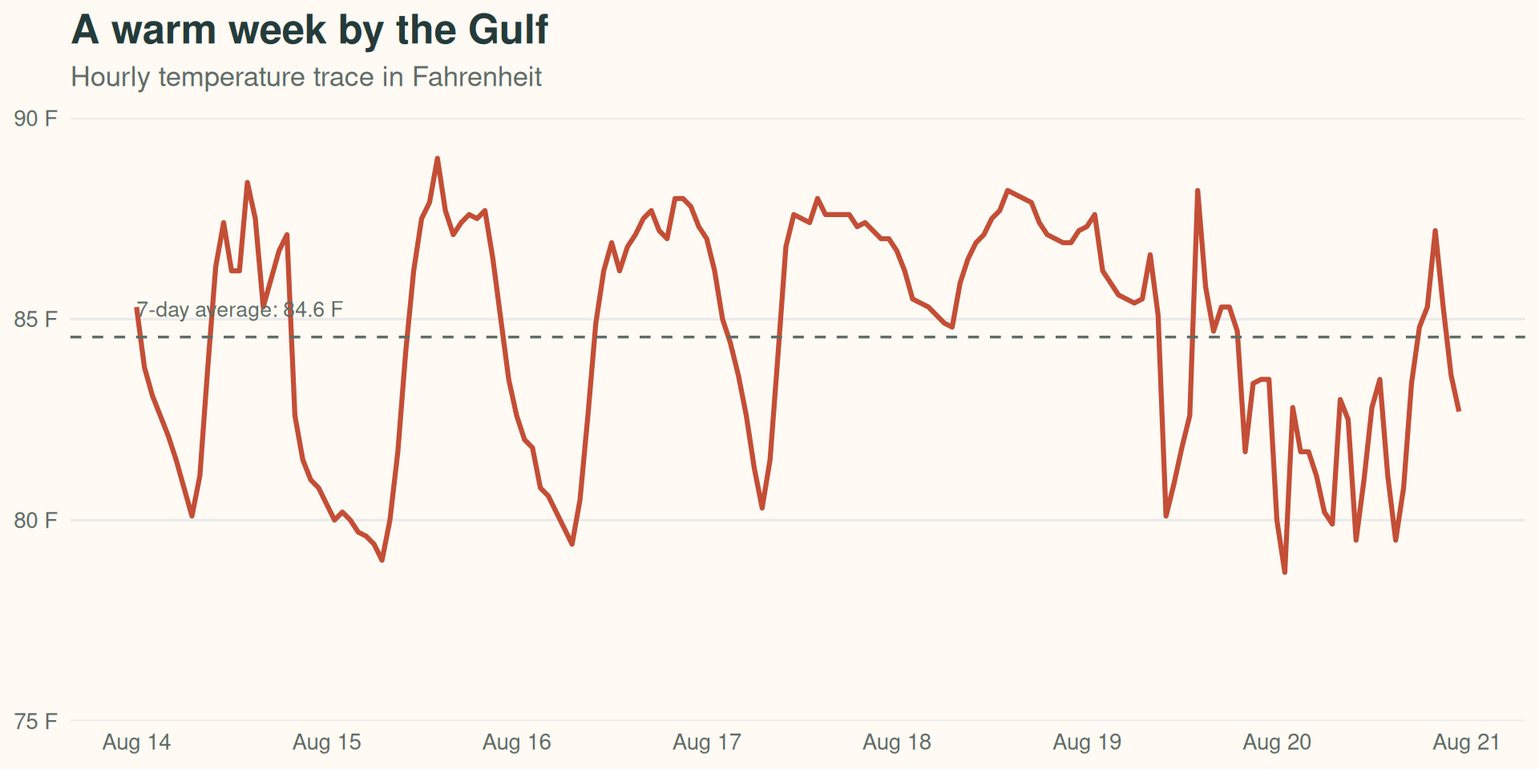
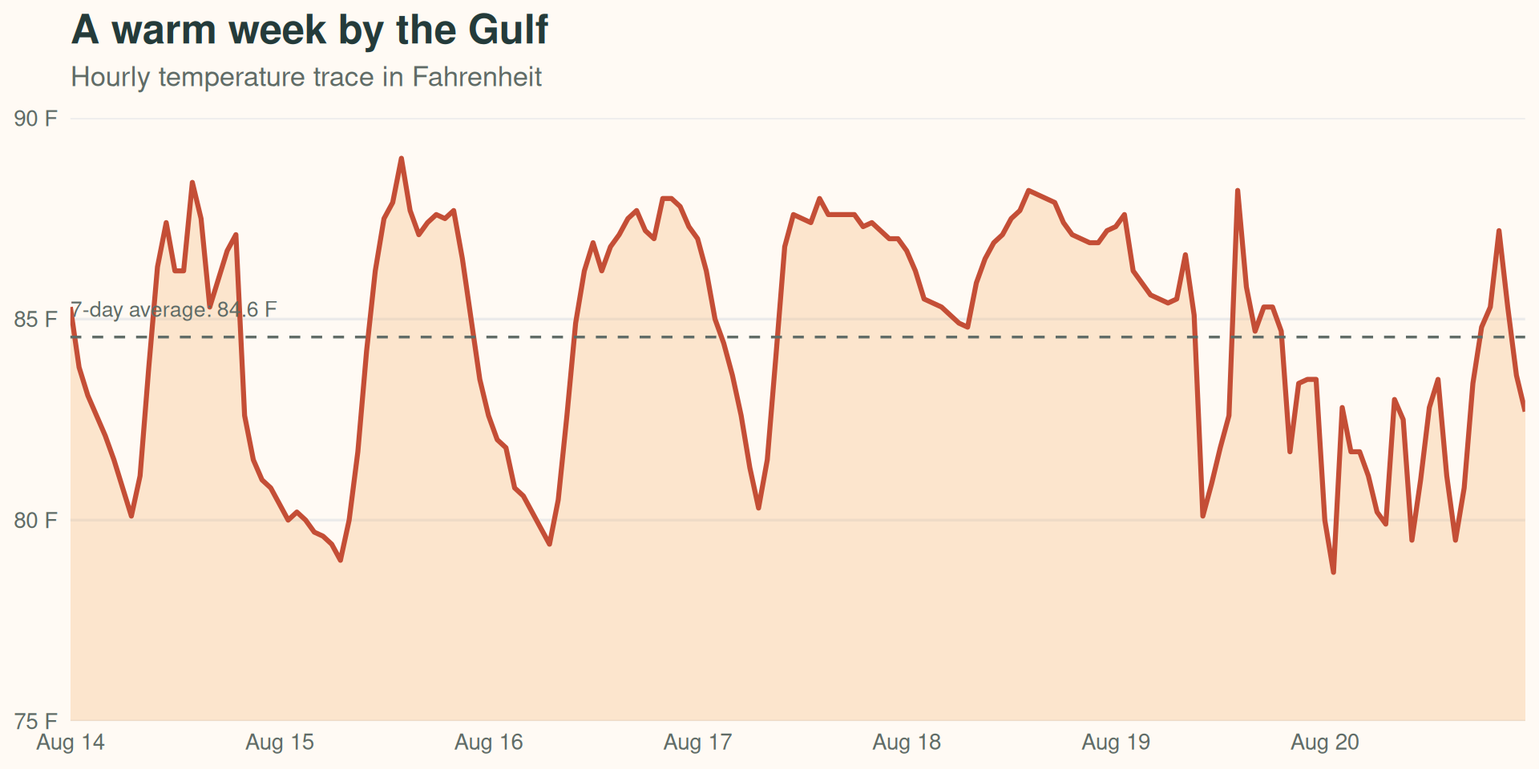
Built site for gh-pages

diff --git a/index.html b/index.html
@@ -80,7 +80,8 @@ pre > code.sourceCode > span > a:first-child::before { text-decoration: underlin
 
 <link rel="stylesheet" href="body { background: #fffaf4; }
 .quarto-title-block { max-width: 900px; margin: 0 auto; }
-.quarto-figure { margin-top: 1.5rem; }">
+.quarto-figure { margin-top: 1.5rem; }
+.cell { display: flex; flex-direction: column-reverse; }">
 </head>
 
 <body class="fullcontent quarto-light">
@@ -128,26 +129,23 @@ pre > code.sourceCode > span > a:first-child::before { text-decoration: underlin
 <span id="cb1-7"><a href="#cb1-7" aria-hidden="true" tabindex="-1"></a>           <span class="at">label =</span> <span class="fu">paste0</span>(<span class="st">"7-day average: "</span>, <span class="fu">round</span>(<span class="fu">mean</span>(weather<span class="sc">$</span>temperature_f), <span class="dv">1</span>), <span class="st">" F"</span>),</span>
 <span id="cb1-8"><a href="#cb1-8" aria-hidden="true" tabindex="-1"></a>           <span class="at">hjust =</span> <span class="dv">0</span>, <span class="at">color =</span> <span class="st">"#5f6b66"</span>, <span class="at">size =</span> <span class="fl">3.5</span>) <span class="sc">+</span></span>
 <span id="cb1-9"><a href="#cb1-9" aria-hidden="true" tabindex="-1"></a>  <span class="fu">scale_x_datetime</span>(<span class="at">date_breaks =</span> <span class="st">"1 day"</span>, <span class="at">date_labels =</span> <span class="st">"%b %d"</span>) <span class="sc">+</span></span>
-<span id="cb1-10"><a href="#cb1-10" aria-hidden="true" tabindex="-1"></a>  <span class="fu">scale_y_continuous</span>(<span class="at">limits =</span> <span class="fu">c</span>(<span class="dv">75</span>, <span class="dv">90</span>), <span class="at">breaks =</span> <span class="fu">seq</span>(<span class="dv">75</span>, <span class="dv">90</span>, <span class="at">by =</span> <span class="dv">5</span>),</span>
-<span id="cb1-11"><a href="#cb1-11" aria-hidden="true" tabindex="-1"></a>                     <span class="at">labels =</span> \(x) <span class="fu">paste0</span>(x, <span class="st">" F"</span>), <span class="at">expand =</span> <span class="fu">c</span>(<span class="dv">0</span>, <span class="dv">0</span>)) <span class="sc">+</span></span>
-<span id="cb1-12"><a href="#cb1-12" aria-hidden="true" tabindex="-1"></a>  <span class="fu">labs</span>(<span class="at">x =</span> <span class="cn">NULL</span>, <span class="at">y =</span> <span class="cn">NULL</span>,</span>
-<span id="cb1-13"><a href="#cb1-13" aria-hidden="true" tabindex="-1"></a>       <span class="at">title =</span> <span class="st">"A warm week by the Gulf"</span>,</span>
-<span id="cb1-14"><a href="#cb1-14" aria-hidden="true" tabindex="-1"></a>       <span class="at">subtitle =</span> <span class="st">"Hourly temperature trace in Fahrenheit"</span>) <span class="sc">+</span></span>
-<span id="cb1-15"><a href="#cb1-15" aria-hidden="true" tabindex="-1"></a>  <span class="fu">theme_minimal</span>(<span class="at">base_size =</span> <span class="dv">13</span>) <span class="sc">+</span></span>
-<span id="cb1-16"><a href="#cb1-16" aria-hidden="true" tabindex="-1"></a>  <span class="fu">theme</span>(</span>
-<span id="cb1-17"><a href="#cb1-17" aria-hidden="true" tabindex="-1"></a>    <span class="at">plot.title =</span> <span class="fu">element_text</span>(<span class="at">face =</span> <span class="st">"bold"</span>, <span class="at">size =</span> <span class="dv">19</span>, <span class="at">color =</span> <span class="st">"#243b3a"</span>),</span>
-<span id="cb1-18"><a href="#cb1-18" aria-hidden="true" tabindex="-1"></a>    <span class="at">plot.subtitle =</span> <span class="fu">element_text</span>(<span class="at">color =</span> <span class="st">"#5f6b66"</span>, <span class="at">margin =</span> <span class="fu">margin</span>(<span class="at">b =</span> <span class="dv">12</span>)),</span>
-<span id="cb1-19"><a href="#cb1-19" aria-hidden="true" tabindex="-1"></a>    <span class="at">panel.grid.minor =</span> <span class="fu">element_blank</span>(),</span>
-<span id="cb1-20"><a href="#cb1-20" aria-hidden="true" tabindex="-1"></a>    <span class="at">panel.grid.major.x =</span> <span class="fu">element_blank</span>(),</span>
-<span id="cb1-21"><a href="#cb1-21" aria-hidden="true" tabindex="-1"></a>    <span class="at">axis.text =</span> <span class="fu">element_text</span>(<span class="at">color =</span> <span class="st">"#5f6b66"</span>),</span>
-<span id="cb1-22"><a href="#cb1-22" aria-hidden="true" tabindex="-1"></a>    <span class="at">plot.background =</span> <span class="fu">element_rect</span>(<span class="at">fill =</span> <span class="st">"#fffaf4"</span>, <span class="at">color =</span> <span class="cn">NA</span>),</span>
-<span id="cb1-23"><a href="#cb1-23" aria-hidden="true" tabindex="-1"></a>    <span class="at">panel.background =</span> <span class="fu">element_rect</span>(<span class="at">fill =</span> <span class="st">"#fffaf4"</span>, <span class="at">color =</span> <span class="cn">NA</span>)</span>
-<span id="cb1-24"><a href="#cb1-24" aria-hidden="true" tabindex="-1"></a>  )</span></code></pre></div><button title="Copy to Clipboard" class="code-copy-button"><i class="bi"></i></button></div>
+<span id="cb1-10"><a href="#cb1-10" aria-hidden="true" tabindex="-1"></a>  <span class="fu">scale_y_continuous</span>(<span class="at">breaks =</span> <span class="fu">seq</span>(<span class="dv">75</span>, <span class="dv">90</span>, <span class="at">by =</span> <span class="dv">5</span>),</span>
+<span id="cb1-11"><a href="#cb1-11" aria-hidden="true" tabindex="-1"></a>                     <span class="at">labels =</span> \(x) <span class="fu">paste0</span>(x, <span class="st">" F"</span>)) <span class="sc">+</span></span>
+<span id="cb1-12"><a href="#cb1-12" aria-hidden="true" tabindex="-1"></a>  <span class="fu">coord_cartesian</span>(<span class="at">ylim =</span> <span class="fu">c</span>(<span class="dv">75</span>, <span class="dv">90</span>), <span class="at">expand =</span> <span class="cn">FALSE</span>) <span class="sc">+</span></span>
+<span id="cb1-13"><a href="#cb1-13" aria-hidden="true" tabindex="-1"></a>  <span class="fu">labs</span>(<span class="at">x =</span> <span class="cn">NULL</span>, <span class="at">y =</span> <span class="cn">NULL</span>,</span>
+<span id="cb1-14"><a href="#cb1-14" aria-hidden="true" tabindex="-1"></a>       <span class="at">title =</span> <span class="st">"A warm week by the Gulf"</span>,</span>
+<span id="cb1-15"><a href="#cb1-15" aria-hidden="true" tabindex="-1"></a>       <span class="at">subtitle =</span> <span class="st">"Hourly temperature trace in Fahrenheit"</span>) <span class="sc">+</span></span>
+<span id="cb1-16"><a href="#cb1-16" aria-hidden="true" tabindex="-1"></a>  <span class="fu">theme_minimal</span>(<span class="at">base_size =</span> <span class="dv">13</span>) <span class="sc">+</span></span>
+<span id="cb1-17"><a href="#cb1-17" aria-hidden="true" tabindex="-1"></a>  <span class="fu">theme</span>(</span>
+<span id="cb1-18"><a href="#cb1-18" aria-hidden="true" tabindex="-1"></a>    <span class="at">plot.title =</span> <span class="fu">element_text</span>(<span class="at">face =</span> <span class="st">"bold"</span>, <span class="at">size =</span> <span class="dv">19</span>, <span class="at">color =</span> <span class="st">"#243b3a"</span>),</span>
+<span id="cb1-19"><a href="#cb1-19" aria-hidden="true" tabindex="-1"></a>    <span class="at">plot.subtitle =</span> <span class="fu">element_text</span>(<span class="at">color =</span> <span class="st">"#5f6b66"</span>, <span class="at">margin =</span> <span class="fu">margin</span>(<span class="at">b =</span> <span class="dv">12</span>)),</span>
+<span id="cb1-20"><a href="#cb1-20" aria-hidden="true" tabindex="-1"></a>    <span class="at">panel.grid.minor =</span> <span class="fu">element_blank</span>(),</span>
+<span id="cb1-21"><a href="#cb1-21" aria-hidden="true" tabindex="-1"></a>    <span class="at">panel.grid.major.x =</span> <span class="fu">element_blank</span>(),</span>
+<span id="cb1-22"><a href="#cb1-22" aria-hidden="true" tabindex="-1"></a>    <span class="at">axis.text =</span> <span class="fu">element_text</span>(<span class="at">color =</span> <span class="st">"#5f6b66"</span>),</span>
+<span id="cb1-23"><a href="#cb1-23" aria-hidden="true" tabindex="-1"></a>    <span class="at">plot.background =</span> <span class="fu">element_rect</span>(<span class="at">fill =</span> <span class="st">"#fffaf4"</span>, <span class="at">color =</span> <span class="cn">NA</span>),</span>
+<span id="cb1-24"><a href="#cb1-24" aria-hidden="true" tabindex="-1"></a>    <span class="at">panel.background =</span> <span class="fu">element_rect</span>(<span class="at">fill =</span> <span class="st">"#fffaf4"</span>, <span class="at">color =</span> <span class="cn">NA</span>)</span>
+<span id="cb1-25"><a href="#cb1-25" aria-hidden="true" tabindex="-1"></a>  )</span></code></pre></div><button title="Copy to Clipboard" class="code-copy-button"><i class="bi"></i></button></div>
 </details>
-<div class="cell-output cell-output-stderr">
-<pre><code>Warning in max(ids, na.rm = TRUE): no non-missing arguments to max; returning
--Inf</code></pre>
-</div>
 <div class="cell-output-display">
 <div class="quarto-figure quarto-figure-center">
 <figure class="figure">
@@ -160,23 +158,23 @@ pre > code.sourceCode > span > a:first-child::before { text-decoration: underlin
 <div class="cell">
 <details class="code-fold">
 <summary>Code</summary>
-<div class="code-copy-outer-scaffold"><div class="sourceCode cell-code" id="cb3"><pre class="sourceCode r code-with-copy"><code class="sourceCode r"><span id="cb3-1"><a href="#cb3-1" aria-hidden="true" tabindex="-1"></a><span class="fu">ggplot</span>(weather, <span class="fu">aes</span>(<span class="at">x =</span> time, <span class="at">y =</span> precipitation_inches)) <span class="sc">+</span></span>
-<span id="cb3-2"><a href="#cb3-2" aria-hidden="true" tabindex="-1"></a>  <span class="fu">geom_col</span>(<span class="at">fill =</span> <span class="st">"#277da1"</span>) <span class="sc">+</span></span>
-<span id="cb3-3"><a href="#cb3-3" aria-hidden="true" tabindex="-1"></a>  <span class="fu">scale_x_datetime</span>(<span class="at">date_breaks =</span> <span class="st">"1 day"</span>, <span class="at">date_labels =</span> <span class="st">"%b %d"</span>) <span class="sc">+</span></span>
-<span id="cb3-4"><a href="#cb3-4" aria-hidden="true" tabindex="-1"></a>  <span class="fu">scale_y_continuous</span>(<span class="at">labels =</span> \(x) <span class="fu">paste0</span>(x, <span class="st">" in"</span>)) <span class="sc">+</span></span>
-<span id="cb3-5"><a href="#cb3-5" aria-hidden="true" tabindex="-1"></a>  <span class="fu">labs</span>(<span class="at">x =</span> <span class="cn">NULL</span>, <span class="at">y =</span> <span class="cn">NULL</span>,</span>
-<span id="cb3-6"><a href="#cb3-6" aria-hidden="true" tabindex="-1"></a>       <span class="at">title =</span> <span class="st">"Hourly Precipitation"</span>,</span>
-<span id="cb3-7"><a href="#cb3-7" aria-hidden="true" tabindex="-1"></a>       <span class="at">subtitle =</span> <span class="st">"Rainfall measured in inches"</span>) <span class="sc">+</span></span>
-<span id="cb3-8"><a href="#cb3-8" aria-hidden="true" tabindex="-1"></a>  <span class="fu">theme_minimal</span>(<span class="at">base_size =</span> <span class="dv">13</span>) <span class="sc">+</span></span>
-<span id="cb3-9"><a href="#cb3-9" aria-hidden="true" tabindex="-1"></a>  <span class="fu">theme</span>(</span>
-<span id="cb3-10"><a href="#cb3-10" aria-hidden="true" tabindex="-1"></a>    <span class="at">plot.title =</span> <span class="fu">element_text</span>(<span class="at">face =</span> <span class="st">"bold"</span>, <span class="at">size =</span> <span class="dv">16</span>, <span class="at">color =</span> <span class="st">"#243b3a"</span>),</span>
-<span id="cb3-11"><a href="#cb3-11" aria-hidden="true" tabindex="-1"></a>    <span class="at">plot.subtitle =</span> <span class="fu">element_text</span>(<span class="at">color =</span> <span class="st">"#5f6b66"</span>, <span class="at">margin =</span> <span class="fu">margin</span>(<span class="at">b =</span> <span class="dv">12</span>)),</span>
-<span id="cb3-12"><a href="#cb3-12" aria-hidden="true" tabindex="-1"></a>    <span class="at">panel.grid.minor =</span> <span class="fu">element_blank</span>(),</span>
-<span id="cb3-13"><a href="#cb3-13" aria-hidden="true" tabindex="-1"></a>    <span class="at">panel.grid.major.x =</span> <span class="fu">element_blank</span>(),</span>
-<span id="cb3-14"><a href="#cb3-14" aria-hidden="true" tabindex="-1"></a>    <span class="at">axis.text =</span> <span class="fu">element_text</span>(<span class="at">color =</span> <span class="st">"#5f6b66"</span>),</span>
-<span id="cb3-15"><a href="#cb3-15" aria-hidden="true" tabindex="-1"></a>    <span class="at">plot.background =</span> <span class="fu">element_rect</span>(<span class="at">fill =</span> <span class="st">"#fffaf4"</span>, <span class="at">color =</span> <span class="cn">NA</span>),</span>
-<span id="cb3-16"><a href="#cb3-16" aria-hidden="true" tabindex="-1"></a>    <span class="at">panel.background =</span> <span class="fu">element_rect</span>(<span class="at">fill =</span> <span class="st">"#fffaf4"</span>, <span class="at">color =</span> <span class="cn">NA</span>)</span>
-<span id="cb3-17"><a href="#cb3-17" aria-hidden="true" tabindex="-1"></a>  )</span></code></pre></div><button title="Copy to Clipboard" class="code-copy-button"><i class="bi"></i></button></div>
+<div class="code-copy-outer-scaffold"><div class="sourceCode cell-code" id="cb2"><pre class="sourceCode r code-with-copy"><code class="sourceCode r"><span id="cb2-1"><a href="#cb2-1" aria-hidden="true" tabindex="-1"></a><span class="fu">ggplot</span>(weather, <span class="fu">aes</span>(<span class="at">x =</span> time, <span class="at">y =</span> precipitation_inches)) <span class="sc">+</span></span>
+<span id="cb2-2"><a href="#cb2-2" aria-hidden="true" tabindex="-1"></a>  <span class="fu">geom_col</span>(<span class="at">fill =</span> <span class="st">"#277da1"</span>) <span class="sc">+</span></span>
+<span id="cb2-3"><a href="#cb2-3" aria-hidden="true" tabindex="-1"></a>  <span class="fu">scale_x_datetime</span>(<span class="at">date_breaks =</span> <span class="st">"1 day"</span>, <span class="at">date_labels =</span> <span class="st">"%b %d"</span>) <span class="sc">+</span></span>
+<span id="cb2-4"><a href="#cb2-4" aria-hidden="true" tabindex="-1"></a>  <span class="fu">scale_y_continuous</span>(<span class="at">labels =</span> \(x) <span class="fu">paste0</span>(x, <span class="st">" in"</span>)) <span class="sc">+</span></span>
+<span id="cb2-5"><a href="#cb2-5" aria-hidden="true" tabindex="-1"></a>  <span class="fu">labs</span>(<span class="at">x =</span> <span class="cn">NULL</span>, <span class="at">y =</span> <span class="cn">NULL</span>,</span>
+<span id="cb2-6"><a href="#cb2-6" aria-hidden="true" tabindex="-1"></a>       <span class="at">title =</span> <span class="st">"Hourly Precipitation"</span>,</span>
+<span id="cb2-7"><a href="#cb2-7" aria-hidden="true" tabindex="-1"></a>       <span class="at">subtitle =</span> <span class="st">"Rainfall measured in inches"</span>) <span class="sc">+</span></span>
+<span id="cb2-8"><a href="#cb2-8" aria-hidden="true" tabindex="-1"></a>  <span class="fu">theme_minimal</span>(<span class="at">base_size =</span> <span class="dv">13</span>) <span class="sc">+</span></span>
+<span id="cb2-9"><a href="#cb2-9" aria-hidden="true" tabindex="-1"></a>  <span class="fu">theme</span>(</span>
+<span id="cb2-10"><a href="#cb2-10" aria-hidden="true" tabindex="-1"></a>    <span class="at">plot.title =</span> <span class="fu">element_text</span>(<span class="at">face =</span> <span class="st">"bold"</span>, <span class="at">size =</span> <span class="dv">16</span>, <span class="at">color =</span> <span class="st">"#243b3a"</span>),</span>
+<span id="cb2-11"><a href="#cb2-11" aria-hidden="true" tabindex="-1"></a>    <span class="at">plot.subtitle =</span> <span class="fu">element_text</span>(<span class="at">color =</span> <span class="st">"#5f6b66"</span>, <span class="at">margin =</span> <span class="fu">margin</span>(<span class="at">b =</span> <span class="dv">12</span>)),</span>
+<span id="cb2-12"><a href="#cb2-12" aria-hidden="true" tabindex="-1"></a>    <span class="at">panel.grid.minor =</span> <span class="fu">element_blank</span>(),</span>
+<span id="cb2-13"><a href="#cb2-13" aria-hidden="true" tabindex="-1"></a>    <span class="at">panel.grid.major.x =</span> <span class="fu">element_blank</span>(),</span>
+<span id="cb2-14"><a href="#cb2-14" aria-hidden="true" tabindex="-1"></a>    <span class="at">axis.text =</span> <span class="fu">element_text</span>(<span class="at">color =</span> <span class="st">"#5f6b66"</span>),</span>
+<span id="cb2-15"><a href="#cb2-15" aria-hidden="true" tabindex="-1"></a>    <span class="at">plot.background =</span> <span class="fu">element_rect</span>(<span class="at">fill =</span> <span class="st">"#fffaf4"</span>, <span class="at">color =</span> <span class="cn">NA</span>),</span>
+<span id="cb2-16"><a href="#cb2-16" aria-hidden="true" tabindex="-1"></a>    <span class="at">panel.background =</span> <span class="fu">element_rect</span>(<span class="at">fill =</span> <span class="st">"#fffaf4"</span>, <span class="at">color =</span> <span class="cn">NA</span>)</span>
+<span id="cb2-17"><a href="#cb2-17" aria-hidden="true" tabindex="-1"></a>  )</span></code></pre></div><button title="Copy to Clipboard" class="code-copy-button"><i class="bi"></i></button></div>
 </details>
 <div class="cell-output-display">
 <div class="quarto-figure quarto-figure-center">

diff --git a/sarasota-weather.html b/sarasota-weather.html
@@ -80,7 +80,8 @@ pre > code.sourceCode > span > a:first-child::before { text-decoration: underlin
 
 <link rel="stylesheet" href="body { background: #fffaf4; }
 .quarto-title-block { max-width: 900px; margin: 0 auto; }
-.quarto-figure { margin-top: 1.5rem; }">
+.quarto-figure { margin-top: 1.5rem; }
+.cell { display: flex; flex-direction: column-reverse; }">
 </head>
 
 <body class="fullcontent quarto-light">
@@ -128,26 +129,23 @@ pre > code.sourceCode > span > a:first-child::before { text-decoration: underlin
 <span id="cb1-7"><a href="#cb1-7" aria-hidden="true" tabindex="-1"></a>           <span class="at">label =</span> <span class="fu">paste0</span>(<span class="st">"7-day average: "</span>, <span class="fu">round</span>(<span class="fu">mean</span>(weather<span class="sc">$</span>temperature_f), <span class="dv">1</span>), <span class="st">" F"</span>),</span>
 <span id="cb1-8"><a href="#cb1-8" aria-hidden="true" tabindex="-1"></a>           <span class="at">hjust =</span> <span class="dv">0</span>, <span class="at">color =</span> <span class="st">"#5f6b66"</span>, <span class="at">size =</span> <span class="fl">3.5</span>) <span class="sc">+</span></span>
 <span id="cb1-9"><a href="#cb1-9" aria-hidden="true" tabindex="-1"></a>  <span class="fu">scale_x_datetime</span>(<span class="at">date_breaks =</span> <span class="st">"1 day"</span>, <span class="at">date_labels =</span> <span class="st">"%b %d"</span>) <span class="sc">+</span></span>
-<span id="cb1-10"><a href="#cb1-10" aria-hidden="true" tabindex="-1"></a>  <span class="fu">scale_y_continuous</span>(<span class="at">limits =</span> <span class="fu">c</span>(<span class="dv">75</span>, <span class="dv">90</span>), <span class="at">breaks =</span> <span class="fu">seq</span>(<span class="dv">75</span>, <span class="dv">90</span>, <span class="at">by =</span> <span class="dv">5</span>),</span>
-<span id="cb1-11"><a href="#cb1-11" aria-hidden="true" tabindex="-1"></a>                     <span class="at">labels =</span> \(x) <span class="fu">paste0</span>(x, <span class="st">" F"</span>), <span class="at">expand =</span> <span class="fu">c</span>(<span class="dv">0</span>, <span class="dv">0</span>)) <span class="sc">+</span></span>
-<span id="cb1-12"><a href="#cb1-12" aria-hidden="true" tabindex="-1"></a>  <span class="fu">labs</span>(<span class="at">x =</span> <span class="cn">NULL</span>, <span class="at">y =</span> <span class="cn">NULL</span>,</span>
-<span id="cb1-13"><a href="#cb1-13" aria-hidden="true" tabindex="-1"></a>       <span class="at">title =</span> <span class="st">"A warm week by the Gulf"</span>,</span>
-<span id="cb1-14"><a href="#cb1-14" aria-hidden="true" tabindex="-1"></a>       <span class="at">subtitle =</span> <span class="st">"Hourly temperature trace in Fahrenheit"</span>) <span class="sc">+</span></span>
-<span id="cb1-15"><a href="#cb1-15" aria-hidden="true" tabindex="-1"></a>  <span class="fu">theme_minimal</span>(<span class="at">base_size =</span> <span class="dv">13</span>) <span class="sc">+</span></span>
-<span id="cb1-16"><a href="#cb1-16" aria-hidden="true" tabindex="-1"></a>  <span class="fu">theme</span>(</span>
-<span id="cb1-17"><a href="#cb1-17" aria-hidden="true" tabindex="-1"></a>    <span class="at">plot.title =</span> <span class="fu">element_text</span>(<span class="at">face =</span> <span class="st">"bold"</span>, <span class="at">size =</span> <span class="dv">19</span>, <span class="at">color =</span> <span class="st">"#243b3a"</span>),</span>
-<span id="cb1-18"><a href="#cb1-18" aria-hidden="true" tabindex="-1"></a>    <span class="at">plot.subtitle =</span> <span class="fu">element_text</span>(<span class="at">color =</span> <span class="st">"#5f6b66"</span>, <span class="at">margin =</span> <span class="fu">margin</span>(<span class="at">b =</span> <span class="dv">12</span>)),</span>
-<span id="cb1-19"><a href="#cb1-19" aria-hidden="true" tabindex="-1"></a>    <span class="at">panel.grid.minor =</span> <span class="fu">element_blank</span>(),</span>
-<span id="cb1-20"><a href="#cb1-20" aria-hidden="true" tabindex="-1"></a>    <span class="at">panel.grid.major.x =</span> <span class="fu">element_blank</span>(),</span>
-<span id="cb1-21"><a href="#cb1-21" aria-hidden="true" tabindex="-1"></a>    <span class="at">axis.text =</span> <span class="fu">element_text</span>(<span class="at">color =</span> <span class="st">"#5f6b66"</span>),</span>
-<span id="cb1-22"><a href="#cb1-22" aria-hidden="true" tabindex="-1"></a>    <span class="at">plot.background =</span> <span class="fu">element_rect</span>(<span class="at">fill =</span> <span class="st">"#fffaf4"</span>, <span class="at">color =</span> <span class="cn">NA</span>),</span>
-<span id="cb1-23"><a href="#cb1-23" aria-hidden="true" tabindex="-1"></a>    <span class="at">panel.background =</span> <span class="fu">element_rect</span>(<span class="at">fill =</span> <span class="st">"#fffaf4"</span>, <span class="at">color =</span> <span class="cn">NA</span>)</span>
-<span id="cb1-24"><a href="#cb1-24" aria-hidden="true" tabindex="-1"></a>  )</span></code></pre></div><button title="Copy to Clipboard" class="code-copy-button"><i class="bi"></i></button></div>
+<span id="cb1-10"><a href="#cb1-10" aria-hidden="true" tabindex="-1"></a>  <span class="fu">scale_y_continuous</span>(<span class="at">breaks =</span> <span class="fu">seq</span>(<span class="dv">75</span>, <span class="dv">90</span>, <span class="at">by =</span> <span class="dv">5</span>),</span>
+<span id="cb1-11"><a href="#cb1-11" aria-hidden="true" tabindex="-1"></a>                     <span class="at">labels =</span> \(x) <span class="fu">paste0</span>(x, <span class="st">" F"</span>)) <span class="sc">+</span></span>
+<span id="cb1-12"><a href="#cb1-12" aria-hidden="true" tabindex="-1"></a>  <span class="fu">coord_cartesian</span>(<span class="at">ylim =</span> <span class="fu">c</span>(<span class="dv">75</span>, <span class="dv">90</span>), <span class="at">expand =</span> <span class="cn">FALSE</span>) <span class="sc">+</span></span>
+<span id="cb1-13"><a href="#cb1-13" aria-hidden="true" tabindex="-1"></a>  <span class="fu">labs</span>(<span class="at">x =</span> <span class="cn">NULL</span>, <span class="at">y =</span> <span class="cn">NULL</span>,</span>
+<span id="cb1-14"><a href="#cb1-14" aria-hidden="true" tabindex="-1"></a>       <span class="at">title =</span> <span class="st">"A warm week by the Gulf"</span>,</span>
+<span id="cb1-15"><a href="#cb1-15" aria-hidden="true" tabindex="-1"></a>       <span class="at">subtitle =</span> <span class="st">"Hourly temperature trace in Fahrenheit"</span>) <span class="sc">+</span></span>
+<span id="cb1-16"><a href="#cb1-16" aria-hidden="true" tabindex="-1"></a>  <span class="fu">theme_minimal</span>(<span class="at">base_size =</span> <span class="dv">13</span>) <span class="sc">+</span></span>
+<span id="cb1-17"><a href="#cb1-17" aria-hidden="true" tabindex="-1"></a>  <span class="fu">theme</span>(</span>
+<span id="cb1-18"><a href="#cb1-18" aria-hidden="true" tabindex="-1"></a>    <span class="at">plot.title =</span> <span class="fu">element_text</span>(<span class="at">face =</span> <span class="st">"bold"</span>, <span class="at">size =</span> <span class="dv">19</span>, <span class="at">color =</span> <span class="st">"#243b3a"</span>),</span>
+<span id="cb1-19"><a href="#cb1-19" aria-hidden="true" tabindex="-1"></a>    <span class="at">plot.subtitle =</span> <span class="fu">element_text</span>(<span class="at">color =</span> <span class="st">"#5f6b66"</span>, <span class="at">margin =</span> <span class="fu">margin</span>(<span class="at">b =</span> <span class="dv">12</span>)),</span>
+<span id="cb1-20"><a href="#cb1-20" aria-hidden="true" tabindex="-1"></a>    <span class="at">panel.grid.minor =</span> <span class="fu">element_blank</span>(),</span>
+<span id="cb1-21"><a href="#cb1-21" aria-hidden="true" tabindex="-1"></a>    <span class="at">panel.grid.major.x =</span> <span class="fu">element_blank</span>(),</span>
+<span id="cb1-22"><a href="#cb1-22" aria-hidden="true" tabindex="-1"></a>    <span class="at">axis.text =</span> <span class="fu">element_text</span>(<span class="at">color =</span> <span class="st">"#5f6b66"</span>),</span>
+<span id="cb1-23"><a href="#cb1-23" aria-hidden="true" tabindex="-1"></a>    <span class="at">plot.background =</span> <span class="fu">element_rect</span>(<span class="at">fill =</span> <span class="st">"#fffaf4"</span>, <span class="at">color =</span> <span class="cn">NA</span>),</span>
+<span id="cb1-24"><a href="#cb1-24" aria-hidden="true" tabindex="-1"></a>    <span class="at">panel.background =</span> <span class="fu">element_rect</span>(<span class="at">fill =</span> <span class="st">"#fffaf4"</span>, <span class="at">color =</span> <span class="cn">NA</span>)</span>
+<span id="cb1-25"><a href="#cb1-25" aria-hidden="true" tabindex="-1"></a>  )</span></code></pre></div><button title="Copy to Clipboard" class="code-copy-button"><i class="bi"></i></button></div>
 </details>
-<div class="cell-output cell-output-stderr">
-<pre><code>Warning in max(ids, na.rm = TRUE): no non-missing arguments to max; returning
--Inf</code></pre>
-</div>
 <div class="cell-output-display">
 <div class="quarto-figure quarto-figure-center">
 <figure class="figure">
@@ -160,23 +158,23 @@ pre > code.sourceCode > span > a:first-child::before { text-decoration: underlin
 <div class="cell">
 <details class="code-fold">
 <summary>Code</summary>
-<div class="code-copy-outer-scaffold"><div class="sourceCode cell-code" id="cb3"><pre class="sourceCode r code-with-copy"><code class="sourceCode r"><span id="cb3-1"><a href="#cb3-1" aria-hidden="true" tabindex="-1"></a><span class="fu">ggplot</span>(weather, <span class="fu">aes</span>(<span class="at">x =</span> time, <span class="at">y =</span> precipitation_inches)) <span class="sc">+</span></span>
-<span id="cb3-2"><a href="#cb3-2" aria-hidden="true" tabindex="-1"></a>  <span class="fu">geom_col</span>(<span class="at">fill =</span> <span class="st">"#277da1"</span>) <span class="sc">+</span></span>
-<span id="cb3-3"><a href="#cb3-3" aria-hidden="true" tabindex="-1"></a>  <span class="fu">scale_x_datetime</span>(<span class="at">date_breaks =</span> <span class="st">"1 day"</span>, <span class="at">date_labels =</span> <span class="st">"%b %d"</span>) <span class="sc">+</span></span>
-<span id="cb3-4"><a href="#cb3-4" aria-hidden="true" tabindex="-1"></a>  <span class="fu">scale_y_continuous</span>(<span class="at">labels =</span> \(x) <span class="fu">paste0</span>(x, <span class="st">" in"</span>)) <span class="sc">+</span></span>
-<span id="cb3-5"><a href="#cb3-5" aria-hidden="true" tabindex="-1"></a>  <span class="fu">labs</span>(<span class="at">x =</span> <span class="cn">NULL</span>, <span class="at">y =</span> <span class="cn">NULL</span>,</span>
-<span id="cb3-6"><a href="#cb3-6" aria-hidden="true" tabindex="-1"></a>       <span class="at">title =</span> <span class="st">"Hourly Precipitation"</span>,</span>
-<span id="cb3-7"><a href="#cb3-7" aria-hidden="true" tabindex="-1"></a>       <span class="at">subtitle =</span> <span class="st">"Rainfall measured in inches"</span>) <span class="sc">+</span></span>
-<span id="cb3-8"><a href="#cb3-8" aria-hidden="true" tabindex="-1"></a>  <span class="fu">theme_minimal</span>(<span class="at">base_size =</span> <span class="dv">13</span>) <span class="sc">+</span></span>
-<span id="cb3-9"><a href="#cb3-9" aria-hidden="true" tabindex="-1"></a>  <span class="fu">theme</span>(</span>
-<span id="cb3-10"><a href="#cb3-10" aria-hidden="true" tabindex="-1"></a>    <span class="at">plot.title =</span> <span class="fu">element_text</span>(<span class="at">face =</span> <span class="st">"bold"</span>, <span class="at">size =</span> <span class="dv">16</span>, <span class="at">color =</span> <span class="st">"#243b3a"</span>),</span>
-<span id="cb3-11"><a href="#cb3-11" aria-hidden="true" tabindex="-1"></a>    <span class="at">plot.subtitle =</span> <span class="fu">element_text</span>(<span class="at">color =</span> <span class="st">"#5f6b66"</span>, <span class="at">margin =</span> <span class="fu">margin</span>(<span class="at">b =</span> <span class="dv">12</span>)),</span>
-<span id="cb3-12"><a href="#cb3-12" aria-hidden="true" tabindex="-1"></a>    <span class="at">panel.grid.minor =</span> <span class="fu">element_blank</span>(),</span>
-<span id="cb3-13"><a href="#cb3-13" aria-hidden="true" tabindex="-1"></a>    <span class="at">panel.grid.major.x =</span> <span class="fu">element_blank</span>(),</span>
-<span id="cb3-14"><a href="#cb3-14" aria-hidden="true" tabindex="-1"></a>    <span class="at">axis.text =</span> <span class="fu">element_text</span>(<span class="at">color =</span> <span class="st">"#5f6b66"</span>),</span>
-<span id="cb3-15"><a href="#cb3-15" aria-hidden="true" tabindex="-1"></a>    <span class="at">plot.background =</span> <span class="fu">element_rect</span>(<span class="at">fill =</span> <span class="st">"#fffaf4"</span>, <span class="at">color =</span> <span class="cn">NA</span>),</span>
-<span id="cb3-16"><a href="#cb3-16" aria-hidden="true" tabindex="-1"></a>    <span class="at">panel.background =</span> <span class="fu">element_rect</span>(<span class="at">fill =</span> <span class="st">"#fffaf4"</span>, <span class="at">color =</span> <span class="cn">NA</span>)</span>
-<span id="cb3-17"><a href="#cb3-17" aria-hidden="true" tabindex="-1"></a>  )</span></code></pre></div><button title="Copy to Clipboard" class="code-copy-button"><i class="bi"></i></button></div>
+<div class="code-copy-outer-scaffold"><div class="sourceCode cell-code" id="cb2"><pre class="sourceCode r code-with-copy"><code class="sourceCode r"><span id="cb2-1"><a href="#cb2-1" aria-hidden="true" tabindex="-1"></a><span class="fu">ggplot</span>(weather, <span class="fu">aes</span>(<span class="at">x =</span> time, <span class="at">y =</span> precipitation_inches)) <span class="sc">+</span></span>
+<span id="cb2-2"><a href="#cb2-2" aria-hidden="true" tabindex="-1"></a>  <span class="fu">geom_col</span>(<span class="at">fill =</span> <span class="st">"#277da1"</span>) <span class="sc">+</span></span>
+<span id="cb2-3"><a href="#cb2-3" aria-hidden="true" tabindex="-1"></a>  <span class="fu">scale_x_datetime</span>(<span class="at">date_breaks =</span> <span class="st">"1 day"</span>, <span class="at">date_labels =</span> <span class="st">"%b %d"</span>) <span class="sc">+</span></span>
+<span id="cb2-4"><a href="#cb2-4" aria-hidden="true" tabindex="-1"></a>  <span class="fu">scale_y_continuous</span>(<span class="at">labels =</span> \(x) <span class="fu">paste0</span>(x, <span class="st">" in"</span>)) <span class="sc">+</span></span>
+<span id="cb2-5"><a href="#cb2-5" aria-hidden="true" tabindex="-1"></a>  <span class="fu">labs</span>(<span class="at">x =</span> <span class="cn">NULL</span>, <span class="at">y =</span> <span class="cn">NULL</span>,</span>
+<span id="cb2-6"><a href="#cb2-6" aria-hidden="true" tabindex="-1"></a>       <span class="at">title =</span> <span class="st">"Hourly Precipitation"</span>,</span>
+<span id="cb2-7"><a href="#cb2-7" aria-hidden="true" tabindex="-1"></a>       <span class="at">subtitle =</span> <span class="st">"Rainfall measured in inches"</span>) <span class="sc">+</span></span>
+<span id="cb2-8"><a href="#cb2-8" aria-hidden="true" tabindex="-1"></a>  <span class="fu">theme_minimal</span>(<span class="at">base_size =</span> <span class="dv">13</span>) <span class="sc">+</span></span>
+<span id="cb2-9"><a href="#cb2-9" aria-hidden="true" tabindex="-1"></a>  <span class="fu">theme</span>(</span>
+<span id="cb2-10"><a href="#cb2-10" aria-hidden="true" tabindex="-1"></a>    <span class="at">plot.title =</span> <span class="fu">element_text</span>(<span class="at">face =</span> <span class="st">"bold"</span>, <span class="at">size =</span> <span class="dv">16</span>, <span class="at">color =</span> <span class="st">"#243b3a"</span>),</span>
+<span id="cb2-11"><a href="#cb2-11" aria-hidden="true" tabindex="-1"></a>    <span class="at">plot.subtitle =</span> <span class="fu">element_text</span>(<span class="at">color =</span> <span class="st">"#5f6b66"</span>, <span class="at">margin =</span> <span class="fu">margin</span>(<span class="at">b =</span> <span class="dv">12</span>)),</span>
+<span id="cb2-12"><a href="#cb2-12" aria-hidden="true" tabindex="-1"></a>    <span class="at">panel.grid.minor =</span> <span class="fu">element_blank</span>(),</span>
+<span id="cb2-13"><a href="#cb2-13" aria-hidden="true" tabindex="-1"></a>    <span class="at">panel.grid.major.x =</span> <span class="fu">element_blank</span>(),</span>
+<span id="cb2-14"><a href="#cb2-14" aria-hidden="true" tabindex="-1"></a>    <span class="at">axis.text =</span> <span class="fu">element_text</span>(<span class="at">color =</span> <span class="st">"#5f6b66"</span>),</span>
+<span id="cb2-15"><a href="#cb2-15" aria-hidden="true" tabindex="-1"></a>    <span class="at">plot.background =</span> <span class="fu">element_rect</span>(<span class="at">fill =</span> <span class="st">"#fffaf4"</span>, <span class="at">color =</span> <span class="cn">NA</span>),</span>
+<span id="cb2-16"><a href="#cb2-16" aria-hidden="true" tabindex="-1"></a>    <span class="at">panel.background =</span> <span class="fu">element_rect</span>(<span class="at">fill =</span> <span class="st">"#fffaf4"</span>, <span class="at">color =</span> <span class="cn">NA</span>)</span>
+<span id="cb2-17"><a href="#cb2-17" aria-hidden="true" tabindex="-1"></a>  )</span></code></pre></div><button title="Copy to Clipboard" class="code-copy-button"><i class="bi"></i></button></div>
 </details>
 <div class="cell-output-display">
 <div class="quarto-figure quarto-figure-center">
